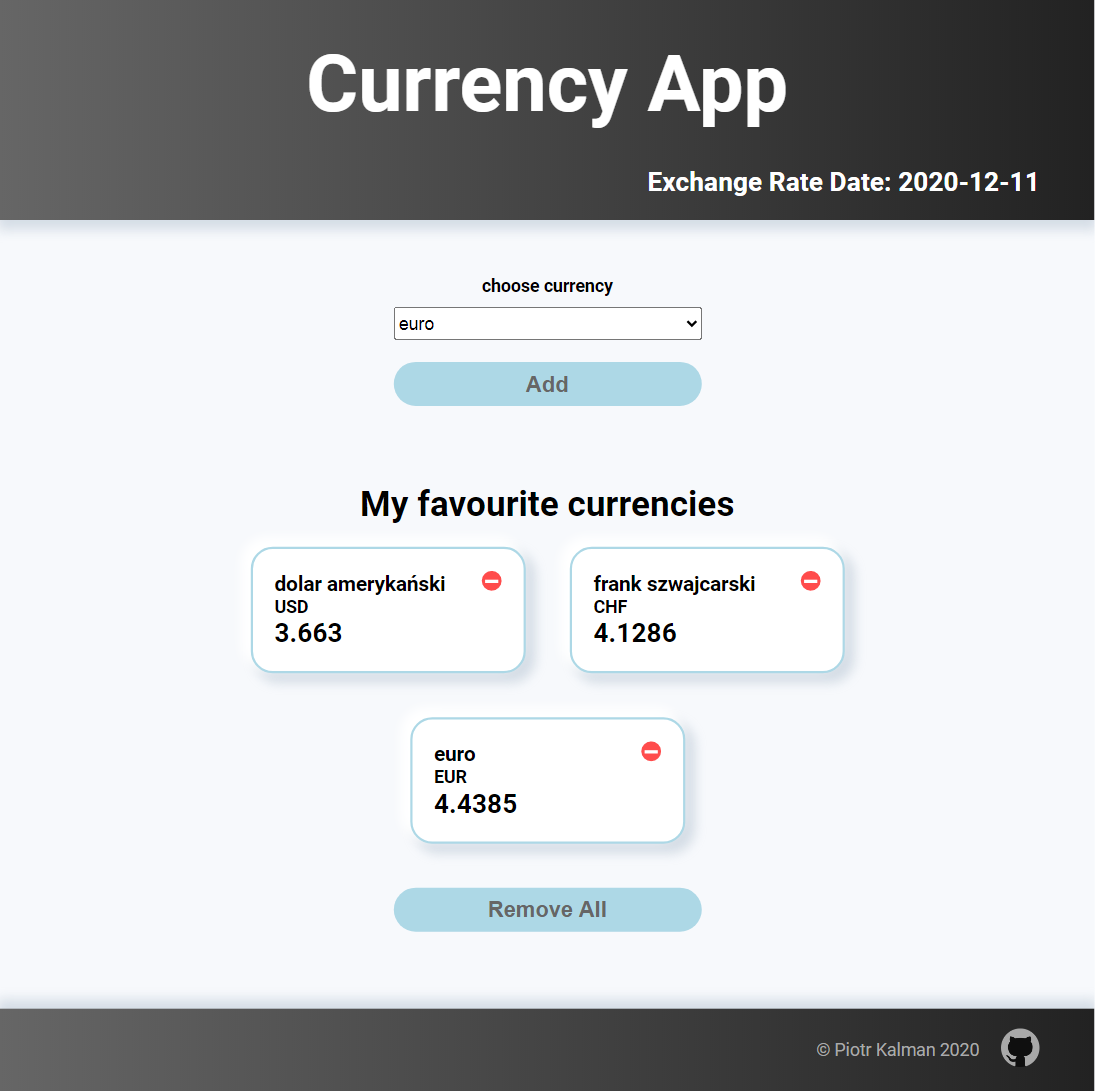
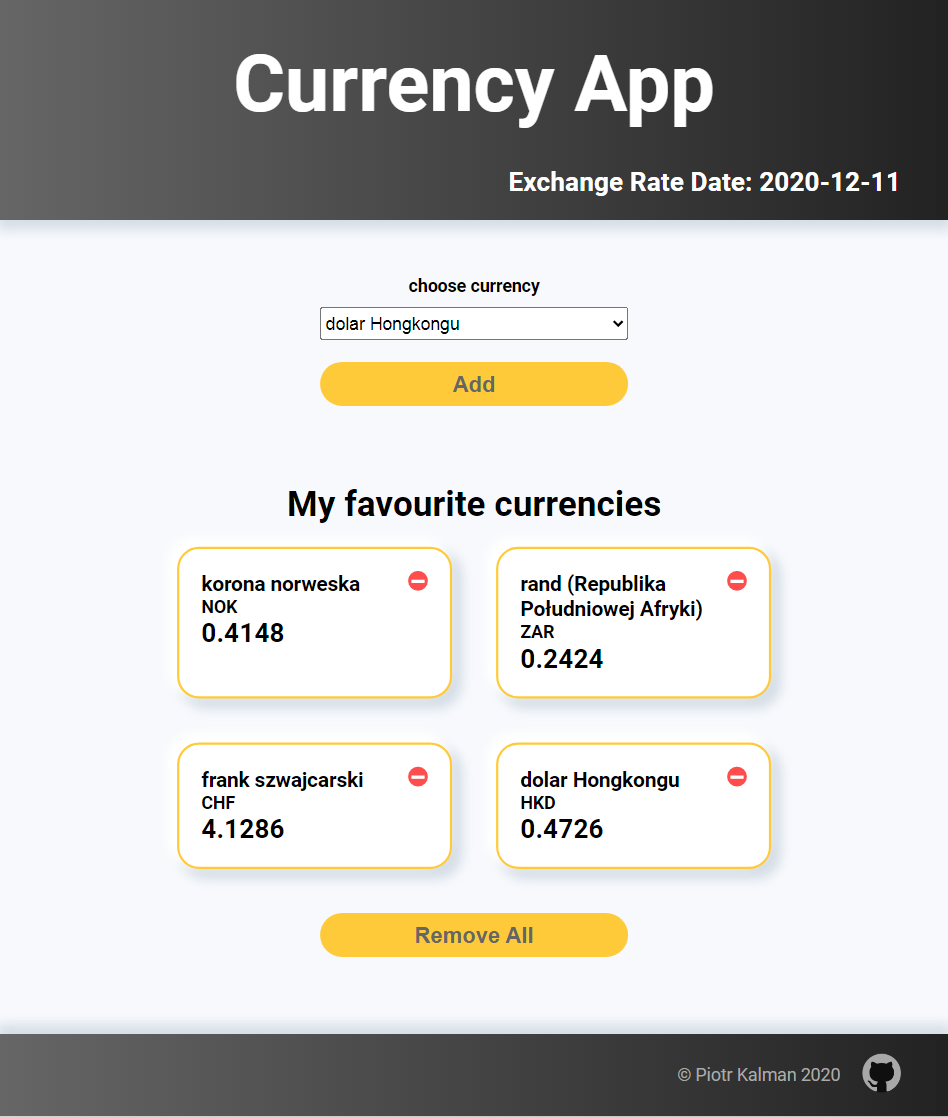
change color, add update screen

diff --git a/src/App.vue b/src/App.vue
@@ -52,7 +52,7 @@
         height: 40px
         margin: 20px auto
         font-weight: 700
-        background: lightblue
+        background: #FFCA3A
         border: 0px
         border-radius: 20px
         font-size: 20px
@@ -61,6 +61,6 @@
         outline: none
         transition: 0.2s
         &:hover
-          color: lightblue
+          color: #FFCA3A
           background-image: linear-gradient(90deg, #666, #222)
 </style>

diff --git a/src/components/Currencies.vue b/src/components/Currencies.vue
@@ -60,7 +60,7 @@
         margin: 20px
         padding: 20px
         text-align: left
-        border: 2px solid lightblue
+        border: 2px solid #FFCA3A
         border-radius: 20px
         box-shadow: -6px -6px 10px 3px white, 6px 6px 10px 3px rgba(#A2B4C6,0.4)
         background-color: #fff

diff --git a/src/components/Modal.vue b/src/components/Modal.vue
@@ -81,7 +81,7 @@
                 cursor: pointer
                 outline: none
                 &:hover
-                    border: 2px solid lightblue
+                    border: 2px solid #FFCA3A
                     background-color: #ffffff
                     color: #000000
 </style>
